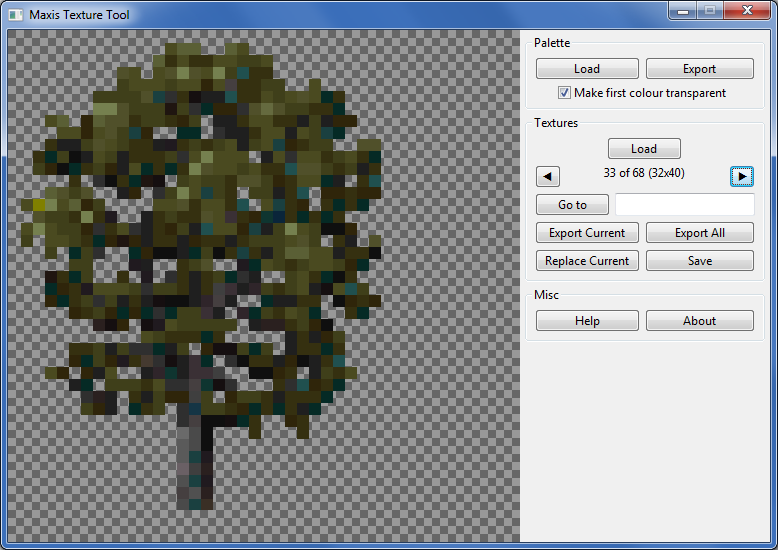
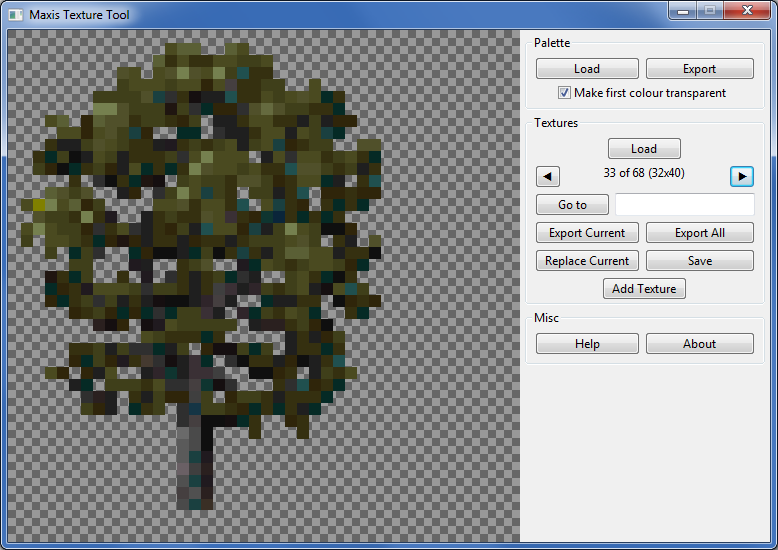
Added ability to add new textures (issue #1)

Changed region(s): [[0.6787, 0.4945, 0.9871, 0.6491]]

diff --git a/MaxisTextureTool/MaxisTextureTool/core.cpp b/MaxisTextureTool/MaxisTextureTool/core.cpp
@@ -80,6 +80,10 @@ Frame::Frame(const wxString& title) : wxFrame(NULL, wxID_ANY, title, wxDefaultPo
 	saveTextureFile->Bind(wxEVT_BUTTON, &Frame::OnSaveTextureFile, this);
 	saveTextureFile->SetToolTip("Save the Maxis composite bitmap file, including any modifications.");
 
+	addTexture = new wxButton(panel1, wxID_ANY, "Add Texture");
+	addTexture->Bind(wxEVT_BUTTON, &Frame::OnAddTexture, this);
+	addTexture->SetToolTip("Add a new texture at the end of the file.");
+
 	help = new wxButton(panel1, wxID_ANY, "Help");
 	help->Bind(wxEVT_BUTTON, &Frame::OnHelp, this);
 
@@ -121,6 +125,7 @@ Frame::Frame(const wxString& title) : wxFrame(NULL, wxID_ANY, title, wxDefaultPo
 	sBSizerTexture->Add(bSizerGoTo, 0, wxEXPAND, 0);
 	sBSizerTexture->Add(bSizerExport, 0, wxEXPAND, 0);
 	sBSizerTexture->Add(bSizerModify, 0, wxEXPAND, 0);
+	sBSizerTexture->Add(addTexture, 0, wxALIGN_CENTER | wxALL, 0);
 
 	bSizer1->Add(sBSizerTexture, 0, wxEXPAND | wxLEFT | wxRIGHT | wxBOTTOM, margin);
 	
@@ -615,6 +620,185 @@ void Frame::OnSaveTextureFile(wxCommandEvent& WXUNUSED(event)) {
 	file.Close();
 }
 
+// TODO lots of this is just copied from the code that replaces a texture, should spin off into some helper functions.
+void Frame::OnAddTexture(wxCommandEvent& WXUNUSED(event)) {
+	if (!IsTextureFileLoaded()) {
+		wxMessageBox("Please load a file.", "Information", wxOK | wxICON_INFORMATION);
+		return;
+	}
+
+	wxString openMessage;
+	openMessage << "Select an image";
+	wxFileDialog openFileDialog(this, openMessage, wxEmptyString, wxEmptyString, "PNG files (*.png)|*.png", wxFD_OPEN | wxFD_FILE_MUST_EXIST);
+	int result = openFileDialog.ShowModal();
+
+	if (result == wxID_CANCEL) {
+		return;
+	}
+
+	wxImage newTexture;
+	newTexture.LoadFile(openFileDialog.GetPath());
+
+	int rowCount = newTexture.GetHeight();
+	int colCount = newTexture.GetWidth();
+
+	int bytesRequiredCount = 12 + rowCount * 4 + rowCount * colCount;
+	
+	std::vector<unsigned char> imageBytes(bytesRequiredCount, 0);
+
+	// Fill in dimensions and value that's always zero.
+	Helpers::Int32ToBytes(colCount, imageBytes.data());
+	Helpers::Int32ToBytes(rowCount, imageBytes.data()+4);
+	Helpers::Int32ToBytes(0, imageBytes.data()+8);
+
+	// Fill in row offset table.
+	for (int i = 0; i < rowCount; ++i) {
+		Helpers::Int32ToBytes(i*colCount, imageBytes.data() + 12 + i*4);
+	}
+
+	int dataStart = 12 + rowCount * 4;
+
+	wxProgressDialog progressDialog("Mapping colours to palette...", "...", colCount * rowCount, this, wxPD_APP_MODAL | wxPD_AUTO_HIDE);
+
+	int pixelsReplacedCount = 0;
+	unsigned char* newTextureData = newTexture.GetData();
+	bool newTextureHasAlphaChannel = newTexture.HasAlpha();
+
+	// For colours that aren't in the palette.
+	std::unordered_map<int, int> nearestMatches;
+
+	// If the first palette colour is being treated as transparent,
+	// don't check it when mapping colours to palette indices.
+	// Otherwise pixels may end up unintentionally transparent in-game.
+	int paletteStartOffset = firstColourTransparent ? 1 : 0;
+
+	for (int curRow = 0; curRow < rowCount; ++curRow)
+	{
+		for (int curCol = 0; curCol < colCount; ++curCol)
+		{
+			int newR = newTextureData[3 * curRow * colCount + 3 * curCol];
+			int newG = newTextureData[3 * curRow * colCount + 3 * curCol + 1];
+			int newB = newTextureData[3 * curRow * colCount + 3 * curCol + 2];
+
+			int address = dataStart + curCol + curRow * colCount;
+
+			if (firstColourTransparent && newTextureHasAlphaChannel && newTexture.GetAlpha(curCol, curRow) == wxIMAGE_ALPHA_TRANSPARENT)
+			{
+				imageBytes[address] = 0;
+				continue;
+			}
+
+			// Find exact match if possible.
+			std::vector<std::tuple<int, int, int>>::iterator it;
+			it = std::find(palette.begin() + paletteStartOffset, palette.end(), std::make_tuple(newR, newG, newB));
+			if (it != palette.end())
+			{
+				imageBytes[address] = std::distance(palette.begin(), it);
+				continue;
+			}
+
+			// No exact match; new colour will need to be replaced with nearest in palette.
+			++pixelsReplacedCount;
+
+			// Check if a nearest match was already found for this colour.
+			int key = newR + 1000 * newG + 1000000 * newB;
+			auto existingNearest = nearestMatches.find(key);
+			if (existingNearest != nearestMatches.end())
+			{
+				imageBytes[address] = existingNearest->second;
+				continue;
+			}
+
+			// Find palette colour closest to new one.
+			int indexBest;
+			int minError;
+			for (size_t curPal = paletteStartOffset; curPal < palette.size(); ++curPal)
+			{
+				int r, g, b;
+				std::tie(r, g, b) = palette[curPal];
+
+				// CompuPhase metric (see https://www.compuphase.com/cmetric.htm).
+				// More nuanced metrics are available (see https://en.wikipedia.org/wiki/Color_difference), but the CompuPhase metric is cheap and reasonably good.
+				int redFactor = newR < 128 ? 2 : 3;
+				const int greenFactor = 4;
+				int blueFactor = newR < 128 ? 3 : 2;
+				int curError = redFactor * (newR - r) * (newR - r) + greenFactor * (newG - g) * (newG - g) + blueFactor * (newB - b) * (newB - b);
+
+				if (curPal == paletteStartOffset || curError < minError) {
+					indexBest = curPal;
+					minError = curError;
+				}
+			}
+
+			/*
+			// This isn't any faster than using a raw loop.
+			it = std::min_element(palette.begin(), palette.end(), [=](const std::tuple<int,int,int> &a, const std::tuple<int, int, int> &b) {
+				int rA, gA, bA;
+				std::tie(rA, gA, bA) = a;
+				int rB, gB, bB;
+				std::tie(rB, gB, bB) = b;
+
+				int errorA = std::abs(newR - rA) + std::abs(newG - gA) + std::abs(newB - bA);
+				int errorB = std::abs(newR - rB) + std::abs(newG - gB) + std::abs(newB - bB);
+
+				return errorA < errorB;
+			});
+			int indexBest = std::distance(palette.begin(), it);
+			*/
+
+			nearestMatches[key] = indexBest;
+			imageBytes[address] = indexBest;
+		}
+
+		// Only update progress once per row (each update adds delay).
+		wxString progressMessage;
+		progressMessage << "Pixel " << curRow * colCount + colCount << " of " << rowCount * colCount;
+		progressDialog.Update(curRow * colCount + colCount, progressMessage);
+	}
+
+	if (pixelsReplacedCount != 0) {
+		wxString message;
+		message << pixelsReplacedCount << " pixels were replaced with the nearest palette colour.";
+		wxMessageBox(message, "Information", wxOK | wxICON_INFORMATION);
+	}
+
+	// Append new texture to end of file.
+	fileBytes.insert(fileBytes.end(), imageBytes.begin(), imageBytes.end());
+
+	// Add entry to resolutions table.
+	std::vector<unsigned char> newResTableEntry(12, 0);
+	Helpers::Int32ToBytes(colCount, newResTableEntry.data());
+	Helpers::Int32ToBytes(rowCount, newResTableEntry.data()+4);
+	Helpers::Int32ToBytes(0, newResTableEntry.data()+8);
+	int endOfResTable = 16 + imageCount * 12;
+	fileBytes.insert(fileBytes.begin()+endOfResTable, newResTableEntry.begin(), newResTableEntry.end());
+
+	// Update file info.
+	++imageCount;
+	Helpers::Int32ToBytes(fileBytes.size(), fileBytes.data());
+	Helpers::Int32ToBytes(imageCount, fileBytes.data()+8);
+	Helpers::Int32ToBytes(imageCount, fileBytes.data()+12);
+
+	// Set current texture to the one that was just added.
+	curImage = imageCount - 1;
+
+	// Regenerate list of start offsets (TODO: make common function).
+	starts = std::vector<int>(imageCount);
+
+	int current = 16 + imageCount*12;
+	for (int i = 0; i < imageCount; ++i) {
+		starts[i] = current;
+
+		int colCount = Helpers::BytesToInt32(fileBytes.data() + current); // X
+		int rowCount = Helpers::BytesToInt32(fileBytes.data() + current + 4); // Y
+		int dataStart = current + 3 * 4 + rowCount * 4;
+
+		current = current + 3 * 4 + rowCount * 4 + colCount * rowCount;
+	}
+
+	UpdateImage();
+}
+
 void Frame::OnHelp(wxCommandEvent& WXUNUSED(event)) {
 	wxString message;
 	message << "This program supports SimCopter and Streets of SimCity.\n"
@@ -771,6 +955,7 @@ void Frame::SetControlState(int state)
 			exportAllTextures->Disable();
 			replaceCurrent->Disable();
 			saveTextureFile->Disable();
+			addTexture->Disable();
 			break;
 		case 1: // Palette, no texture file.
 			loadPalette->Enable();
@@ -785,6 +970,7 @@ void Frame::SetControlState(int state)
 			exportAllTextures->Disable();
 			replaceCurrent->Disable();
 			saveTextureFile->Disable();
+			addTexture->Disable();
 			break;
 		case 2: // Palette and texture file.
 			loadPalette->Enable();
@@ -799,6 +985,7 @@ void Frame::SetControlState(int state)
 			exportAllTextures->Enable();
 			replaceCurrent->Enable();
 			saveTextureFile->Enable();
+			addTexture->Enable();
 			break;
 	}
 }

diff --git a/MaxisTextureTool/MaxisTextureTool/core.h b/MaxisTextureTool/MaxisTextureTool/core.h
@@ -43,6 +43,7 @@ class Frame : public wxFrame {
 		wxButton *exportAllTextures;
 		wxButton *replaceCurrent;
 		wxButton *saveTextureFile;
+		wxButton* addTexture;
 		wxButton *help;
 		wxButton *about;
 
@@ -57,6 +58,7 @@ class Frame : public wxFrame {
 		void OnExportAllTextures(wxCommandEvent& WXUNUSED(event));
 		void OnReplaceCurrent(wxCommandEvent& WXUNUSED(event));
 		void OnSaveTextureFile(wxCommandEvent& WXUNUSED(event));
+		void OnAddTexture(wxCommandEvent& WXUNUSED(event));
 		void OnHelp(wxCommandEvent& WXUNUSED(event));
 		void OnAbout(wxCommandEvent& WXUNUSED(event));
 

diff --git a/MaxisTextureTool/MaxisTextureTool/Helpers.cpp b/MaxisTextureTool/MaxisTextureTool/Helpers.cpp
@@ -7,4 +7,12 @@ namespace Helpers
 		// Little endian
 		return (bytes[3] << 24) | (bytes[2] << 16) | (bytes[1] << 8) | bytes[0];
 	}
+
+	void Int32ToBytes(int value, unsigned char* destination) {
+		// Little endian
+		destination[0] = 0xFF & value;
+		destination[1] = 0xFF & (value >> 8);
+		destination[2] = 0xFF & (value >> 16);
+		destination[3] = 0xFF & (value >> 24);
+	}
 }

diff --git a/MaxisTextureTool/MaxisTextureTool/Helpers.h b/MaxisTextureTool/MaxisTextureTool/Helpers.h
@@ -3,4 +3,6 @@
 namespace Helpers
 {
 	int BytesToInt32(const unsigned char*);
+
+	void Int32ToBytes(int value, unsigned char* destination);
 }

diff --git a/README.md b/README.md
@@ -1,6 +1,6 @@
 # Maxis Texture Tool
 
-This program can view, export, and replace images contained in Maxis composite bitmap files matching the format of those used to store the textures for [SimCopter](https://en.wikipedia.org/wiki/SimCopter) and [Streets of SimCity](https://en.wikipedia.org/wiki/Streets_of_SimCity).
+This program can view and edit Maxis composite bitmap files matching the format of those used to store the textures for [SimCopter](https://en.wikipedia.org/wiki/SimCopter) and [Streets of SimCity](https://en.wikipedia.org/wiki/Streets_of_SimCity).
 
 Recommended for use with [SimCopterX](http://simcopter.net) or [SimStreetsX](http://www.streetsofsimcity.com/), which not only patch both games to ensure reliable operation when run under modern versions of Windows but also ensure that they use local resource files (when installed 1990s-style, both games usually load resource files from their CDs even when the installer has copied them to the hard drive). This means you can modify textures using this program, save a Maxis composite bitmap file with your changes, replace the original file (first making a backup, of course), and see your changes in-game when running via SimCopterX or SimStreetsX.
 
